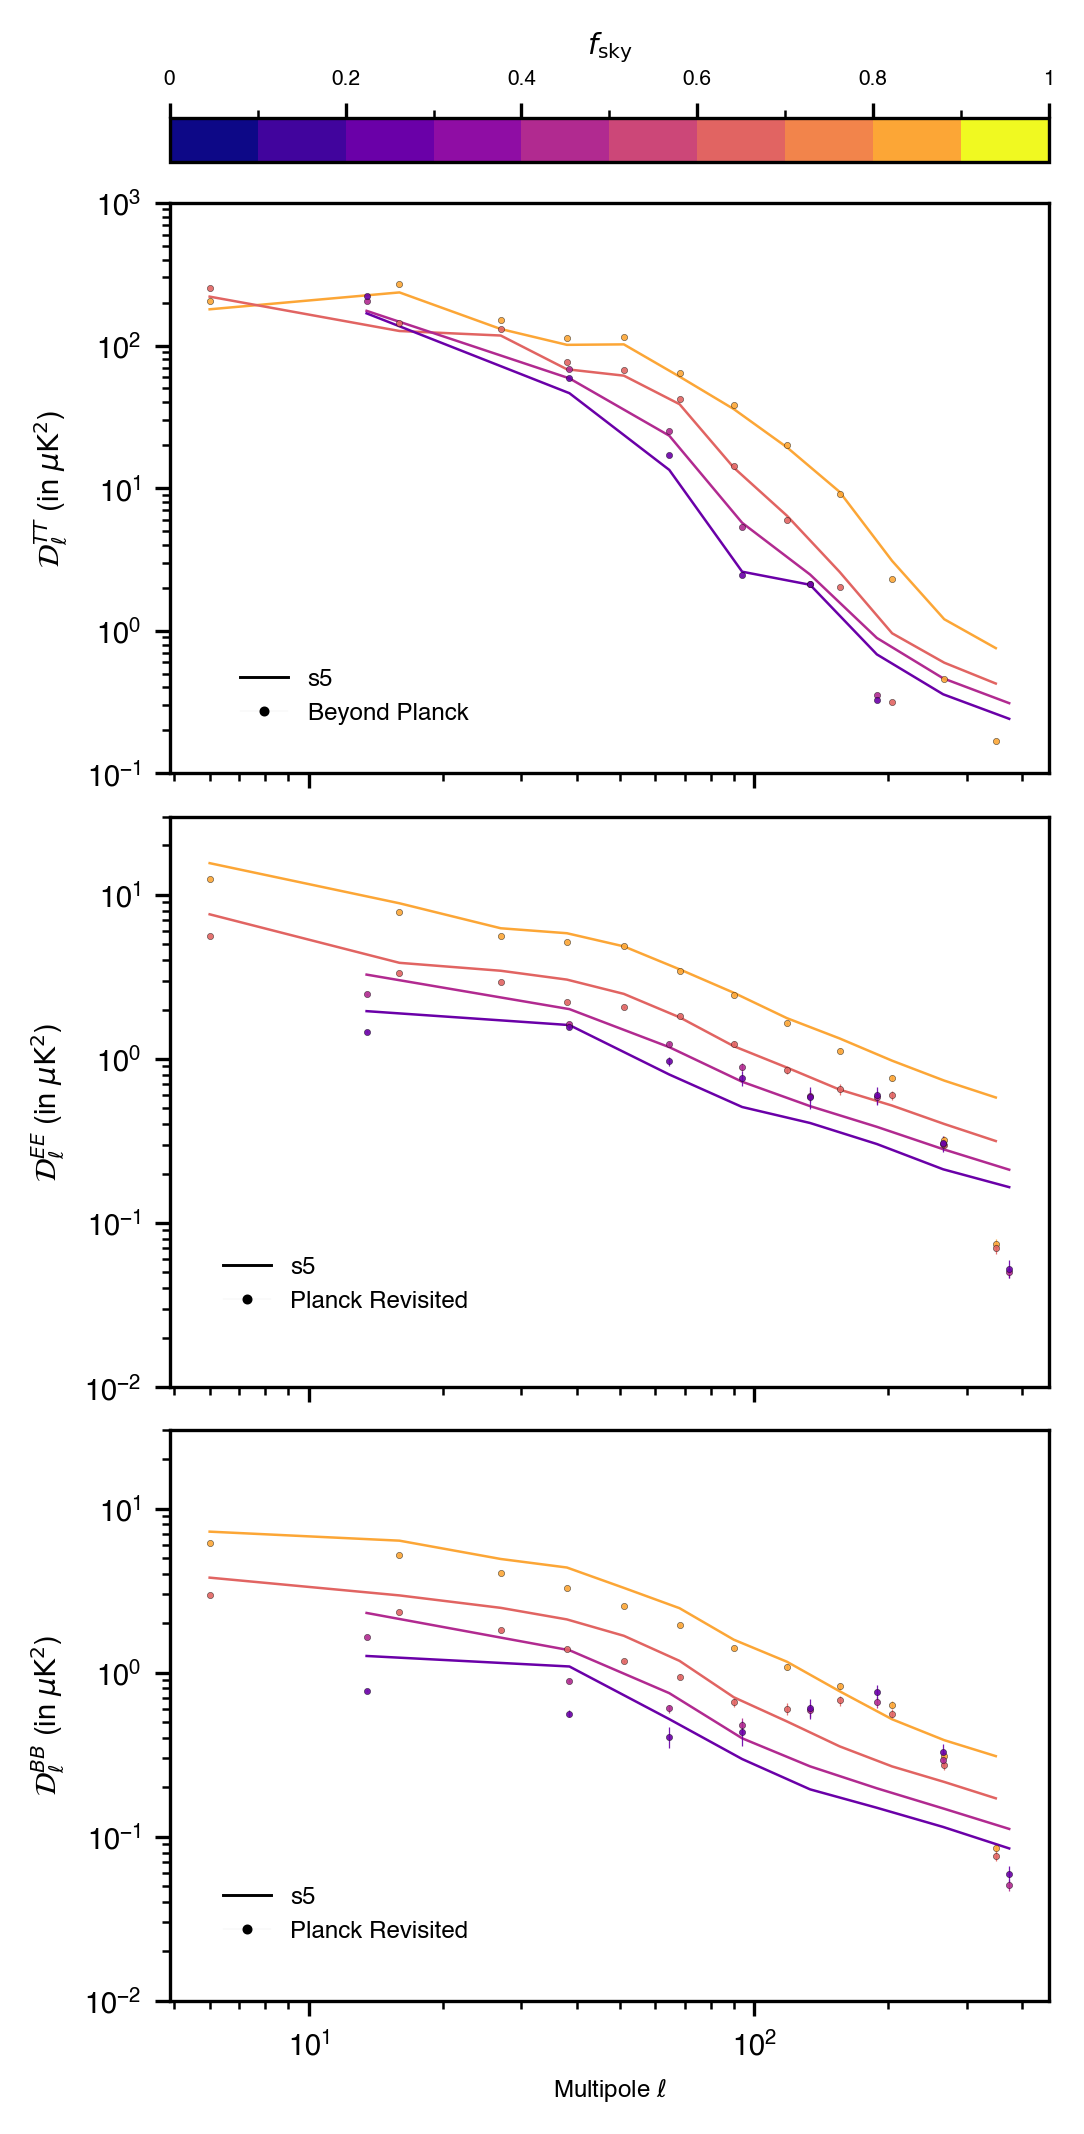
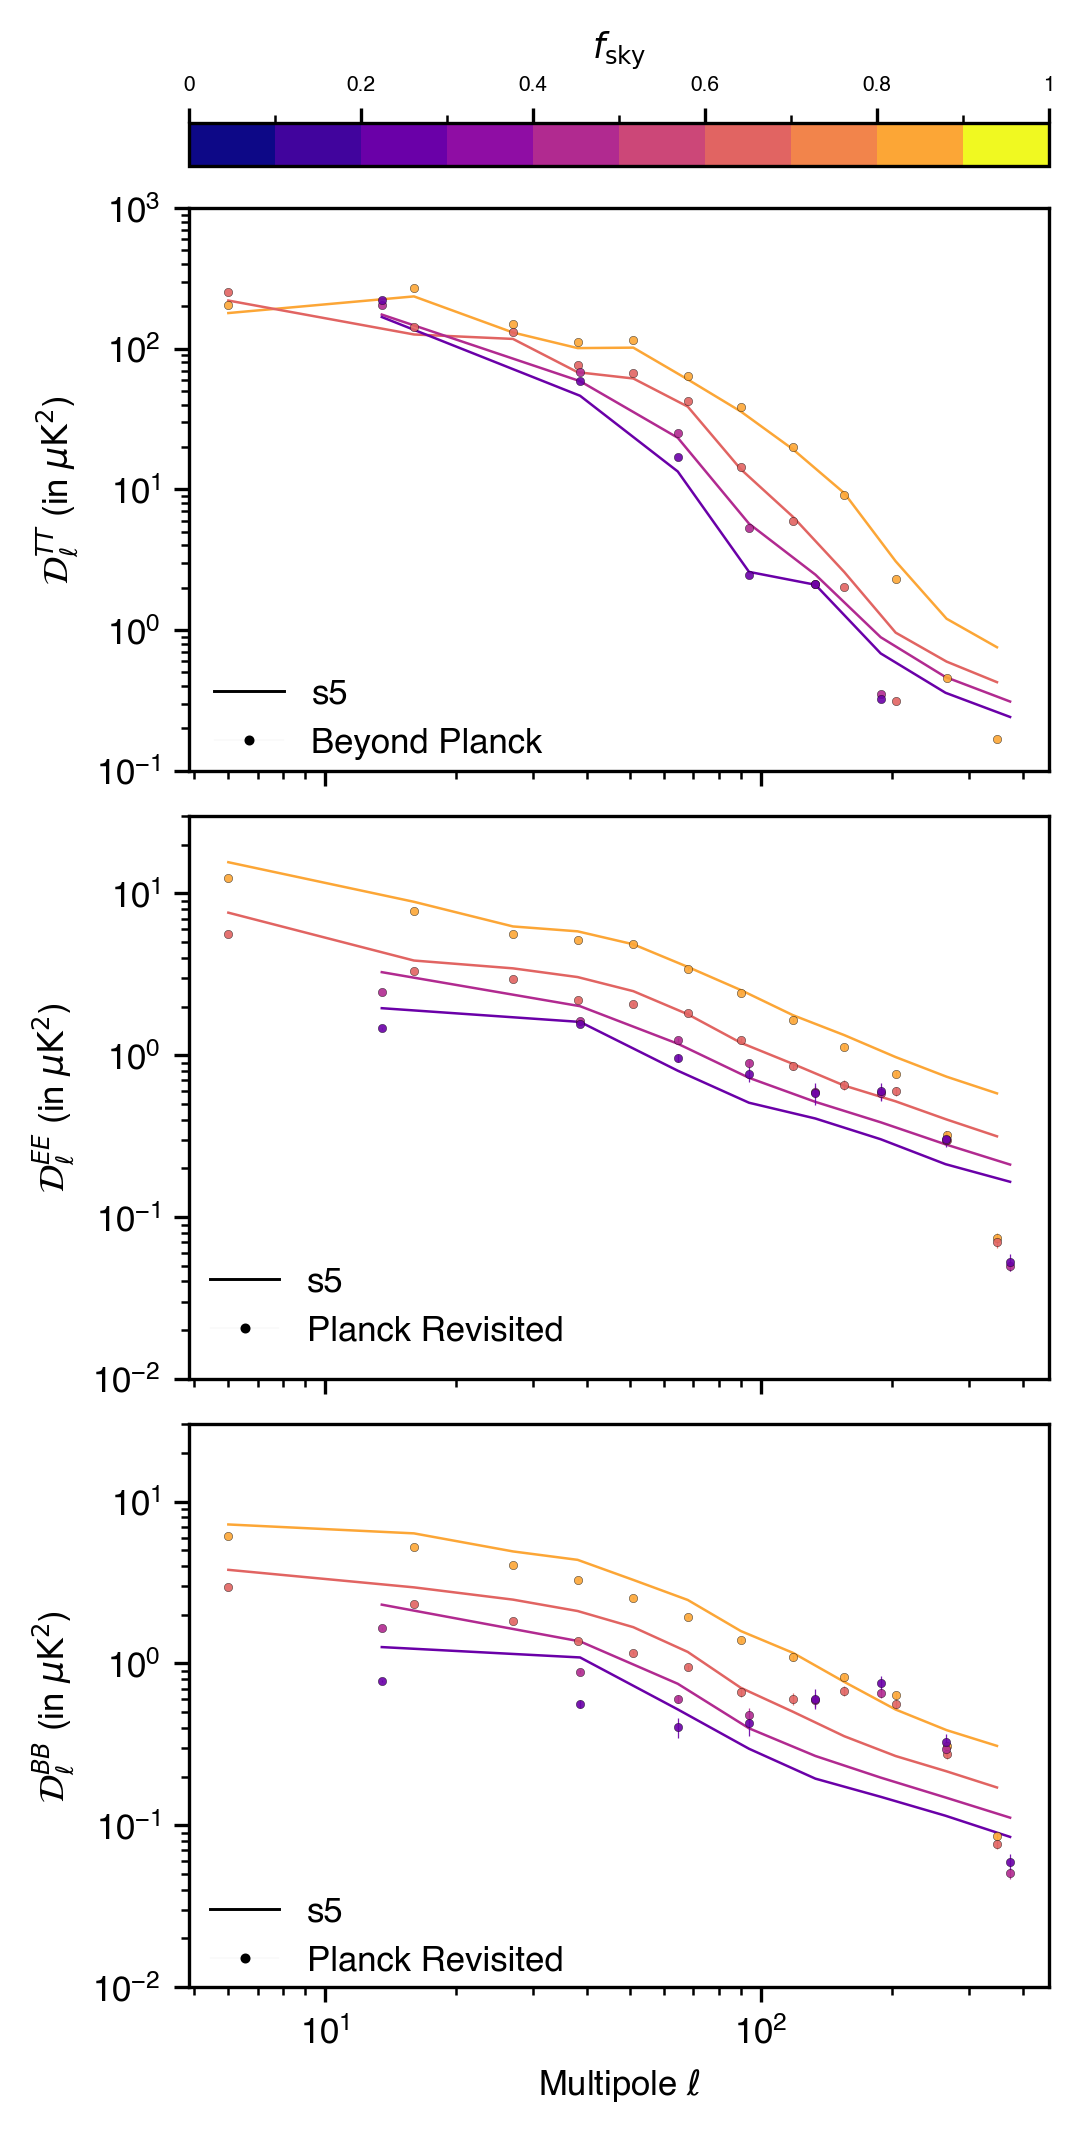
Update on Overleaf.

diff --git a/main.tex b/main.tex
@@ -569,26 +569,34 @@ As one of the major science missions of CMB experiments is to acquire high preci
     \caption{This figure compares the power spectra of the \texttt{s4} model (dark circles) and the input HASLAM/WMAP K-band  map (light circles) when computed on the \texttt{GAL090}, \texttt{GAL070}, \texttt{GAL040}, and \texttt{GAL020} Galactic masks.}
     \label{fig:spectra_by_field}
 \end{figure*}
-In this section we detail the validation of the new synchrotron models by comparing the power spectra with observations. For validating the PySM synchrotron temperature models, we use the synchrotron map from the BeyondPlanck re-analysis of Planck LFI data \citep{Andersen:2023}. BeyondPlanck released a synchrotron map\footnote{https://beyondplanck.science/products/files\_v1} at a reference frequency of 30\,GHz and at $2^\circ$ angular resolution. We produce single frequency temperature maps for the different synchrotron models at 30\,GHz and smoothed with a Gaussian beam with FWHM = $2^\circ$.
+In this section we detail the validation of the new synchrotron models by comparing the power spectra with observations. For validating the PySM synchrotron temperature models, we use the synchrotron map from the BeyondPlanck re-analysis of Planck LFI data \citep{BeyondPlanck23}. BeyondPlanck released a synchrotron map\footnote{https://beyondplanck.science/products/files\_v1} at a reference frequency of 30\,GHz and at $2^\circ$ angular resolution. We produce single frequency temperature maps for the different synchrotron models at 30\,GHz and smoothed with a Gaussian beam with FWHM = $2^\circ$.
 
-\giuse{In case of the synchrotron polarization, we  compare the models with band integrated observations. So, we compute bandpass integrated maps  with PySM~3 routines and for  the different synchrotron models. For the sake of fair comparison with Planck data, we adopt the average LFI 30\,GHz RIMO transmission \citep{planck2014-a03}.} The bandpass integrated maps are further smoothed with Gaussian beams of 33.1\arcmin beams to produce model maps at native resolutions of the LFI 30\,GHz data. Finally, the observed power spectra are computed by taking the cross-spectrum between independent detector splits, e.g. A and B, of the NPIPE \footnote{Publicly available through NERSC at \\ /global/cfs/cdirs/cmb/data/planck2020} (PR4) 30\,GHz maps \citep{planck2020-LVII}. 
+We have purposefully chosen an earlier release of BeyondPlanck for our analysis. Later versions of BeyondPlanck, or its successor, CosmoGlobe produce synchrotron intensity maps at 408 MHz. The PySM synchrotron models s5 and s7 are not suitable for producing synchrotron simulations at 408 MHz. This is a consequence of scaling the Haslam map from 408 GHz to 30 GHz for constructing the template for synchrotron intensity. When this template is rescaled to 408 MHz, with scaling that varies over the the sky, the model fails. We do not recommend use of the s5 and s7 models below 10 GHz. Therefore, we validate our models with the synchrotron intensity map at 30 GHz.
 
-\giuse{We estimated the synchrotron power spectra considering three choices of masks:  full sky  (100\%), 70\% and 50\% sky fractions. To produce the synchrotron  masks, we use the LFI 30\,GHz map of polarized intensity, smoothed with a Gaussian beam of $2^\circ$ FWHM, and masking all the pixels larger than  17 and 10 $\mu{\rm K}_{\rm CMB}$, as shown in Figure \ref{fig:sync_masks}.  Masks are tapered  with a $2^\circ$ cosine apodization.  For the polarization analysis, polarized point sources are also masked using the Planck-LFI DR2 mask\footnote{\bf @shamik could you add the filename reference?}. }
+% \giuse{In case of the synchrotron polarization, we  compare the models with band integrated observations. So, we compute bandpass integrated maps  with PySM~3 routines and for  the different synchrotron models. For the sake of fair comparison with Planck data, we adopt the average LFI 30\,GHz RIMO transmission \citep{planck2014-a03}.} The bandpass integrated maps are further smoothed with Gaussian beams of 33.1\arcmin beams to produce model maps at native resolutions of the LFI 30\,GHz data. Finally, the observed power spectra are computed by taking the cross-spectrum between independent detector splits, e.g. A and B, of the NPIPE \footnote{Publicly available through NERSC at \\ /global/cfs/cdirs/cmb/data/planck2020} (PR4) 30\,GHz maps \citep{planck2020-LVII}. 
+
+For synchrotron polarization validation, we compare the models with Planck Revisited synchrotron polarization maps\footnote{https://portal.nersc.gov/project/cmb/Planck\_Revisited} \citep{Delabrouille2024}. These are the cleanest full sky maps of polarized synchrotron at 30 GHz, at $1^\circ$ resolution, at the time of analysis. We convert the Planck Revisited synchrotron maps from $\mu {\rm K_{RJ}}$ to $\mu {\rm K_{CMB}}$. 
+
+The synchrotron power spectra is computed for four sky fractions, 80\%, 60\%, 40\% and 20 \%, like for the dust validation. However, we do not use the Planck Galactic masks for this. The Planck Galactic masks capture the shape of the Galactic dust signal, as it is the brightest foreground at CMB frequencies. The shape of the Galactic synchrotron signal differs significantly from the shape of the Galactic masks. Therefore, we construct masks for the synchrotron by thresholding the synchrotron polarized intensity smoothed with a $8.5^\circ$ beam. We additionally mask out a portion of the Galactic plane with a narrow band mask. This ensures that we are always excluding the Galactic plane. In Fig. \ref{fig:sync_masks} we show the regions of these masks. 
+
+We also use the Planck Revisited point source mask to mask out the brightest point sources for the polarization analysis. The combined mask is apodized with a $2^\circ$-$6^\circ$ cosine taper. The apodization length increasing with decreasing sky fraction. The power spectrum is estimated with HEALPix \texttt{anafast} in the same way as for the dust. For the $EE$ and $BB$ spectra, we compute the noise bias and standard deviation from 200 noise realizations. The polarization power spectra are corrected for the noise bias. 
+
+% \giuse{We estimated the synchrotron power spectra considering three choices of masks:  full sky  (100\%), 70\% and 50\% sky fractions. To produce the synchrotron  masks, we use the LFI 30\,GHz map of polarized intensity, smoothed with a Gaussian beam of $2^\circ$ FWHM, and masking all the pixels larger than  17 and 10 $\mu{\rm K}_{\rm CMB}$, as shown in Figure \ref{fig:sync_masks}.  Masks are tapered  with a $2^\circ$ cosine apodization.  For the polarization analysis, polarized point sources are also masked using the Planck-LFI DR2 mask\footnote{\bf @shamik could you add the filename reference?}. }
 \begin{figure}
     \centering
     \includegraphics[width=0.46\textwidth]{figures/SYNC_mask_stack.png}
-    \caption{Figure showing the four different Galactic masks used for the synchrotron validation. The red region is the 20 \% mask; the orange region shows the additional sky coverage for 40 \% mask; the yellow region shows the added coverage for 60 \%; the light blue region is the added sky patch of 80 \% mask. The deep blue region is excluded in all masks. }
+    \caption{Figure showing the four different Galactic masks used for the synchrotron validation. The red region is the 20 \% mask; the orange region shows the additional sky coverage for 40 \% mask; the yellow region shows the added coverage for 60 \%; the green region is the added sky patch of 80 \% mask. The purple region is excluded in all masks. }
     \label{fig:sync_masks}
 \end{figure}
 
-We use HEALPix \footnote{https://healpix.sourceforge.io} \texttt{anafast} function \citep{Gorski:2005, Zonca:2019}  to compute the power spectra for the model and observation maps,  accounting for the partial sky coverage by dividing     by an $f_{\rm sky}$ factor.
-For this validation test, 
+% We use HEALPix \footnote{https://healpix.sourceforge.io} \texttt{anafast} function \citep{Gorski:2005, Zonca:2019}  to compute the power spectra for the model and observation maps,  accounting for the partial sky coverage by dividing by an $f_{\rm sky}$ factor.
+% For this validation test, 
 %do not use a pseudo-$C_\ell$ estimator as the synchrotron signal is not statistically isotropic, and we correct for the partial sky by naively dividing by an $f_{\rm sky}$ factor.
 
 \begin{figure}
    \centering
    \includegraphics[width=0.48\textwidth]{figures/Dlcomp_PySM3-4_s5_vs_BPPR_SYNC.png}
-    \caption{Figure showing comparison of power spectra of the PySM s5 model with observation on different sky fractions. The spectra obtained for models s4, s6 and s7 are similar so we don't show them here. The $TT$ power spectrum comparison is done with synchrotron intensity map from BeyondPlanck release 1 \citep{Anderson2023} at 30 GHz with $2^\circ$ beam. The $EE$ and $BB$ power spectra is compared with Planck Revisited \citep{Delabrouille2024} polarized synchrotron map at 30\,GHz with $1^\circ$ beam. The EE and BB spectra for observations are debiased for noise, computed from 200 simulations.}
+    \caption{Figure showing comparison of power spectra of the PySM s5 model with observation on different sky fractions. The spectra obtained for models s4, s6 and s7 are similar so we don't show them here. The $TT$ power spectrum comparison is done with synchrotron intensity map from BeyondPlanck release 1 \citep{BeyondPlanck23} at 30 GHz with $2^\circ$ beam. The $EE$ and $BB$ power spectra is compared with Planck Revisited \citep{Delabrouille2024} polarized synchrotron map at 30\,GHz with $1^\circ$ beam. The EE and BB spectra for observations are debiased for noise, computed from 200 simulations.}
    \label{fig:Dl_sync_galmask}
 \end{figure}
 
